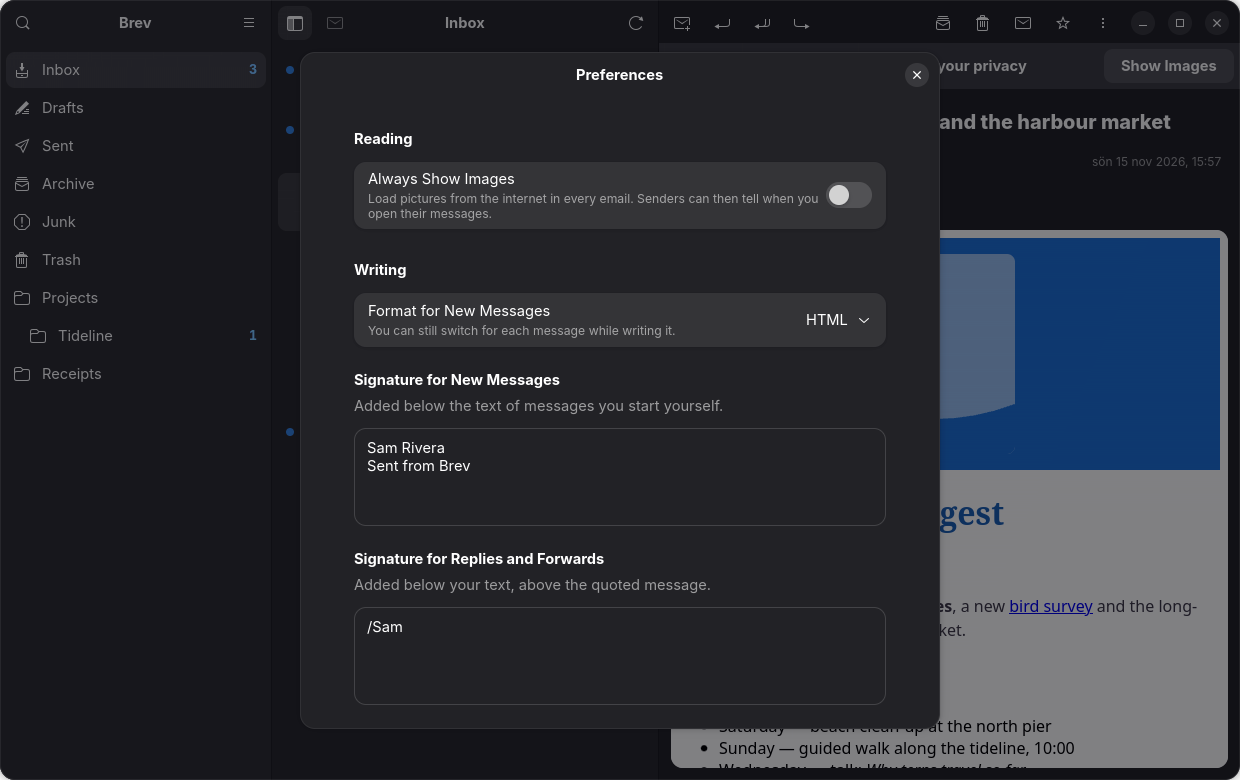
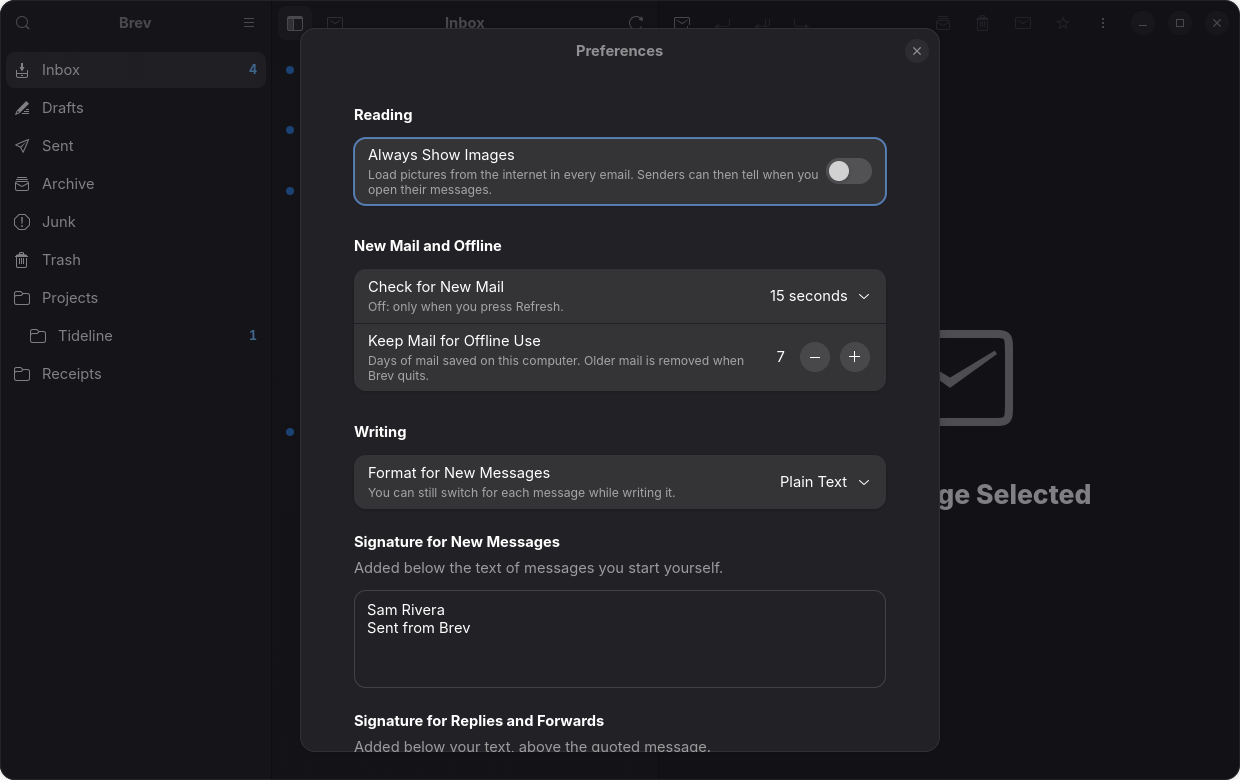
Make the mail check interval and offline cache days settings
Preferences gets a "New Mail and Offline" section: how often to check for
new mail (Off, 15 seconds by default, up to 15 minutes; Off leaves only the
Refresh button) and how many days of mail to keep for offline use (7 by
default). The cache trim and offline downloads follow the number of days.

diff --git a/brev/window.py b/brev/window.py
@@ -23,8 +23,7 @@ from .util import describe_error, format_full_date  # noqa: E402
 from .widgets import FolderRow, MessageRow, MessageView  # noqa: E402
 
 PAGE_SIZE = 50
-REFRESH_SECONDS = 120  # everything: all folder counts, reconnecting, the Outbox
-FOLDER_SYNC_SECONDS = 15  # just the selected folder
+MIN_FULL_REFRESH_SECONDS = 120  # all folder counts, reconnecting, the Outbox: never more often than this
 
 
 def _status_page(icon, title, description=""):
@@ -39,7 +38,6 @@ def _spinner_page(label):
     return box
 
 
-RECENT_SECONDS = 7 * 24 * 3600
 
 
 def _prefixed(subject: str, prefix: str) -> str:
@@ -87,8 +85,9 @@ class BrevWindow(Adw.ApplicationWindow):
         application.settings.connect("notify::always-show-images", lambda *_a: self.current_content is not None
                                      and self._render_content())
         self._load_accounts()
-        GLib.timeout_add_seconds(REFRESH_SECONDS, self._on_refresh_timer)
-        GLib.timeout_add_seconds(FOLDER_SYNC_SECONDS, self._on_folder_sync_timer)
+        self._sync_timer = self._refresh_timer = 0
+        self._schedule_refresh()
+        application.settings.connect("notify::refresh-interval", lambda *_a: self._schedule_refresh())
 
     # ================================================================ UI
 
@@ -664,7 +663,8 @@ class BrevWindow(Adw.ApplicationWindow):
 
     def _prefetch_recent(self, summaries):
         import time
-        recent = [s for s in summaries if s.timestamp >= time.time() - RECENT_SECONDS]
+        keep = self.get_application().settings.cache_days * 24 * 3600
+        recent = [s for s in summaries if s.timestamp >= time.time() - keep]
         if recent and self.current_service.online:
             ok, _bad = self._track(lambda _n: None)
             self.current_service.prefetch(self.current_folder.name, recent, done=ok)
@@ -980,6 +980,19 @@ class BrevWindow(Adw.ApplicationWindow):
             self.list_stack.set_visible_child_name("empty")
 
     # =========================================================== refresh
+
+    def _schedule_refresh(self):
+        """(Re)start the automatic checks from the "Check for New Mail" setting; 0 turns them off."""
+        for source in (self._sync_timer, self._refresh_timer):
+            if source:
+                GLib.source_remove(source)
+        self._sync_timer = self._refresh_timer = 0
+        interval = self.get_application().settings.refresh_interval
+        if interval <= 0:
+            return  # only the Refresh button checks
+        self._sync_timer = GLib.timeout_add_seconds(interval, self._on_folder_sync_timer)
+        self._refresh_timer = GLib.timeout_add_seconds(max(interval, MIN_FULL_REFRESH_SECONDS),
+                                                       self._on_refresh_timer)
 
     def _on_refresh_timer(self):
         self.refresh()

diff --git a/brev/preferences.py b/brev/preferences.py
@@ -2,7 +2,7 @@
 
 from __future__ import annotations
 
-from gettext import gettext as _
+from gettext import gettext as _, ngettext
 
 import gi
 
@@ -13,6 +13,16 @@ from gi.repository import Adw, GObject, Gtk  # noqa: E402
 from .html_view import AVAILABLE as HTML_AVAILABLE  # noqa: E402
 
 _FORMATS = ("plain", "html")
+_INTERVALS = (0, 15, 30, 60, 300, 900)  # seconds; 0 = off
+
+
+def _interval_label(seconds: int) -> str:
+    if seconds == 0:
+        return _("Off")
+    if seconds < 60:
+        return ngettext("{n} second", "{n} seconds", seconds).format(n=seconds)
+    minutes = seconds // 60
+    return ngettext("{n} minute", "{n} minutes", minutes).format(n=minutes)
 
 
 def _signature_editor(settings, key):
@@ -47,6 +57,30 @@ class PreferencesDialog(Adw.PreferencesDialog):
                                GObject.BindingFlags.BIDIRECTIONAL | GObject.BindingFlags.SYNC_CREATE)
         reading.add(images)
         page.add(reading)
+
+        # --- New mail and offline
+        mail = Adw.PreferencesGroup(title=_("New Mail and Offline"))
+        intervals = list(_INTERVALS)
+        if settings.refresh_interval not in intervals:  # a custom value from the settings file
+            intervals.append(settings.refresh_interval)
+            intervals.sort()
+        self._intervals = intervals
+        self.refresh_row = Adw.ComboRow(
+            title=_("Check for New Mail"),
+            subtitle=_("Off: only when you press Refresh."),
+            model=Gtk.StringList.new([_interval_label(i) for i in intervals]))
+        self.refresh_row.set_selected(intervals.index(settings.refresh_interval))
+        self.refresh_row.connect("notify::selected", lambda row, _p: settings.set_property(
+            "refresh-interval", self._intervals[row.get_selected()]))
+        mail.add(self.refresh_row)
+        self.cache_row = Adw.SpinRow.new_with_range(1, 365, 1)
+        self.cache_row.set_title(_("Keep Mail for Offline Use"))
+        self.cache_row.set_subtitle(_("Days of mail saved on this computer. Older mail is removed when Brev quits."))
+        self.cache_row.set_value(settings.cache_days)
+        self.cache_row.connect("notify::value", lambda row, _p: settings.set_property(
+            "cache-days", int(row.get_value())))
+        mail.add(self.cache_row)
+        page.add(mail)
 
         # --- Writing
         writing = Adw.PreferencesGroup(title=_("Writing"))

diff --git a/brev/settings.py b/brev/settings.py
@@ -22,8 +22,11 @@ class Settings(GObject.Object):
     compose_format = GObject.Property(type=str, default="plain")  # "plain" or "html"
     signature_new = GObject.Property(type=str, default="")
     signature_reply = GObject.Property(type=str, default="")
+    cache_days = GObject.Property(type=int, default=7, minimum=1, maximum=365)  # mail kept for offline use
+    refresh_interval = GObject.Property(type=int, default=15, minimum=0)  # seconds; 0 = no automatic checks
 
     _KEYS = ("always_show_images", "compose_format", "signature_new", "signature_reply")
+    _INT_KEYS = {"cache_days": (1, 365), "refresh_interval": (0, 24 * 3600)}
 
     def __init__(self, path: str):
         super().__init__()
@@ -44,6 +47,11 @@ class Settings(GObject.Object):
             keyfile.load_from_file(self.path, GLib.KeyFileFlags.NONE)
         except GLib.Error:
             return  # first run: defaults
+        for key, (low, high) in self._INT_KEYS.items():
+            try:
+                self.set_property(key, max(low, min(high, keyfile.get_integer(_GROUP, key))))
+            except GLib.Error:
+                pass  # missing or not a number: keep the default
         for key in self._KEYS:
             try:
                 if key == "always_show_images":
@@ -65,6 +73,8 @@ class Settings(GObject.Object):
         keyfile.set_boolean(_GROUP, "always_show_images", self.always_show_images)
         for key in ("compose_format", "signature_new", "signature_reply"):
             keyfile.set_string(_GROUP, key, self.get_property(key))
+        for key in self._INT_KEYS:
+            keyfile.set_integer(_GROUP, key, self.get_property(key))
         try:
             os.makedirs(os.path.dirname(self.path), exist_ok=True)
             keyfile.save_to_file(self.path)

diff --git a/brev/application.py b/brev/application.py
@@ -97,7 +97,7 @@ class BrevApplication(Adw.Application):
         if self._cache is None:
             self._cache = Cache(default_path(self.demo))
             # Also purge on start, in case the last session did not exit cleanly.
-            self._cache.purge()
+            self._cache.purge(keep_days=self.settings.cache_days)
         return self._cache
 
     @property
@@ -107,7 +107,7 @@ class BrevApplication(Adw.Application):
         return self._contacts
 
     def do_shutdown(self):
-        """Purge the cache down to the last KEEP_DAYS days of mail."""
+        """Purge the cache down to the last few days of mail (the "Keep Mail for Offline Use" setting)."""
         if self._cache is not None:
             accounts = None
             for window in self.get_windows():
@@ -117,7 +117,7 @@ class BrevApplication(Adw.Application):
                     if window.goa_client is not None or self.demo:
                         accounts = [s.account.id for s in window.services]
             try:
-                self._cache.purge(accounts=accounts)
+                self._cache.purge(keep_days=self.settings.cache_days, accounts=accounts)
             except Exception:
                 logging.getLogger(__name__).warning("Could not purge the cache", exc_info=True)
             self._cache.close()

diff --git a/README.md b/README.md
@@ -40,7 +40,7 @@ It is deliberately **lean**:
   otherwise, so senders can't see when you open their newsletters.
 - **No gossip in your notifications.** "2 new emails have arrived." Not who,
   not what. Your lock screen is not a billboard.
-- **No forty pages of settings.** One window, four choices, sensible defaults.
+- **No forty pages of settings.** One window, a handful of choices, sensible defaults.
 
 ## What you get
 
@@ -52,8 +52,8 @@ It is deliberately **lean**:
 | Writing in plain text or HTML | ✔ Bold, lists, links, and pictures pasted straight from the clipboard |
 | Address suggestions as you type | ✔ From the contacts in your Online Accounts |
 | Adding someone who just wrote to you | ✔ Click their name in the email, *Add to Contacts*. Done |
-| Mail on the train | ✔ The last 7 days are kept for offline reading; replies wait in the Outbox |
-| Knowing when something arrives | ✔ A quiet GNOME notification, and the folder refreshes every 15 seconds |
+| Mail on the train | ✔ The last 7 days (or as many as you like) are kept for offline reading; replies wait in the Outbox |
+| Knowing when something arrives | ✔ A quiet GNOME notification; the folder refreshes every 15 seconds, less often, or only when you ask |
 | Only the stuff you haven't read | ✔ One button, and the list shows unread mail only |
 | Fitting in | ✔ libadwaita, dark mode, your icon theme, and a layout that works down to phone size |
 | A to-do list, a calendar and an AI butler | Not here. GNOME has apps for the first two. |
@@ -92,8 +92,8 @@ All of them.
 - Links open in your browser, never inside Brev.
 - Sign-in is handled by GNOME Online Accounts. Brev asks it for a token when it
   needs one and keeps nothing.
-- Mail is cached on your own computer (`~/.cache/brev`) and trimmed to the last
-  7 days whenever Brev quits.
+- Mail is cached on your own computer (`~/.cache/brev`) and trimmed whenever
+  Brev quits, to the last 7 days or however many you set.
 - New-mail notifications say how many emails arrived. That's all they say.
 
 ## Install
@@ -143,7 +143,7 @@ that never touches the network.
 ## Not done yet
 
 - No conversation threading. Every email stands on its own.
-- New mail is checked every 15 seconds rather than pushed by the server (IMAP IDLE).
+- New mail is checked on a timer (every 15 seconds by default) rather than pushed by the server (IMAP IDLE).
 - Drafts are not saved. Closing an unsent message asks before throwing it away.
 - One pair of signatures for all accounts.
 - Pictures are sent at full size, so a phone photo makes a hefty email.
